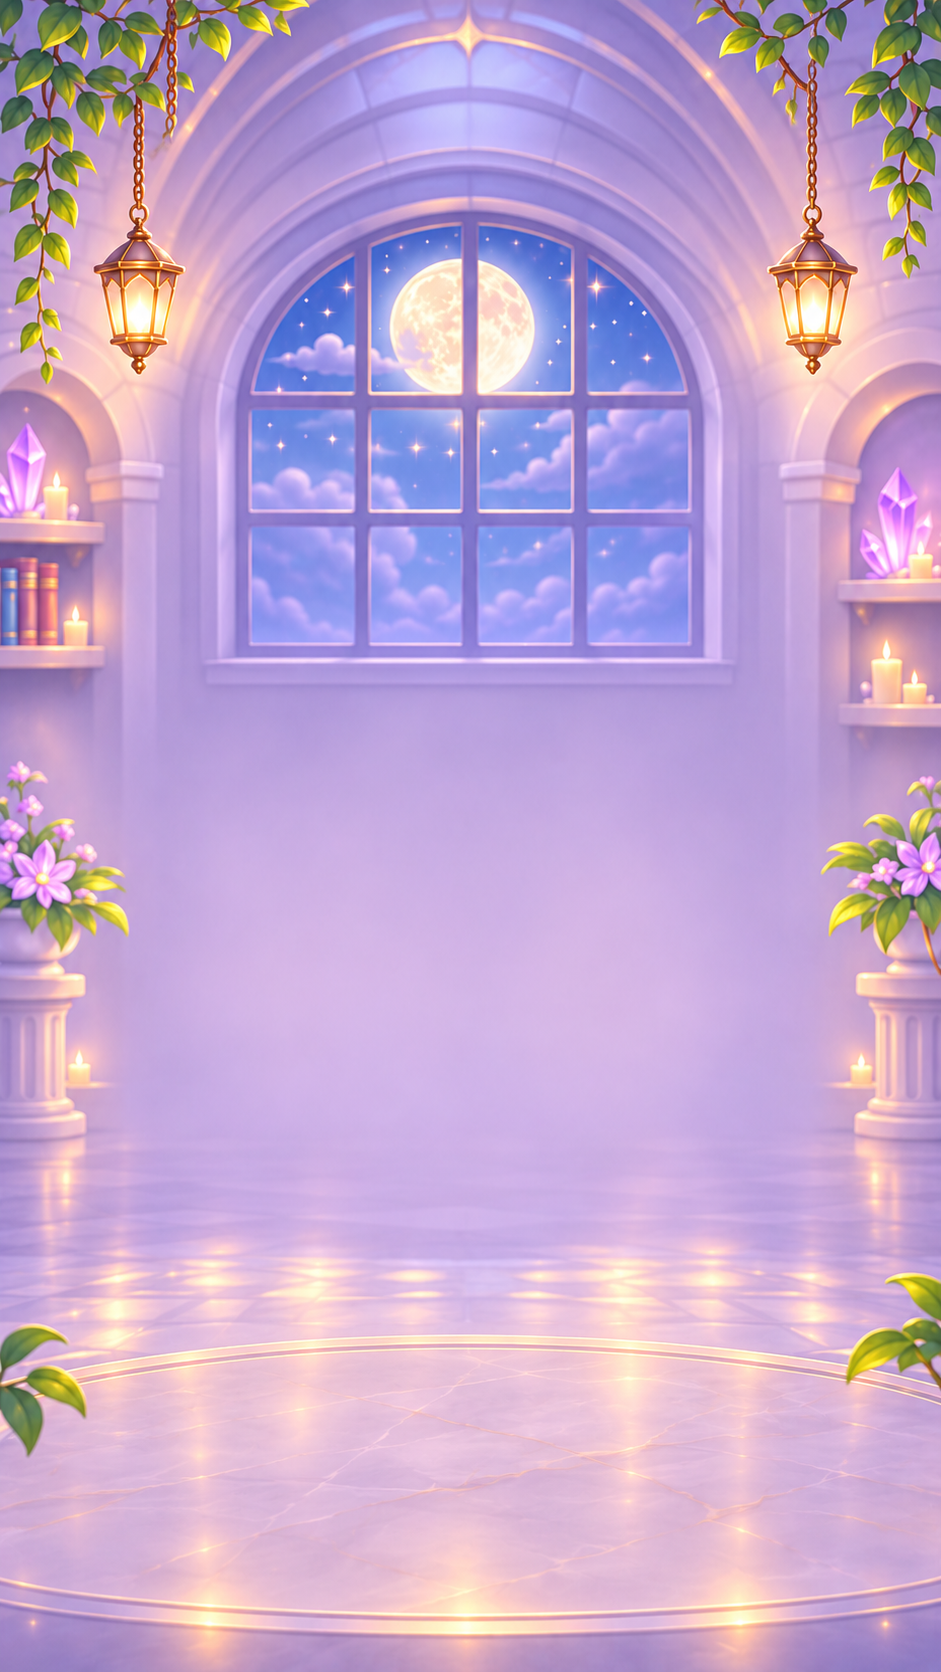
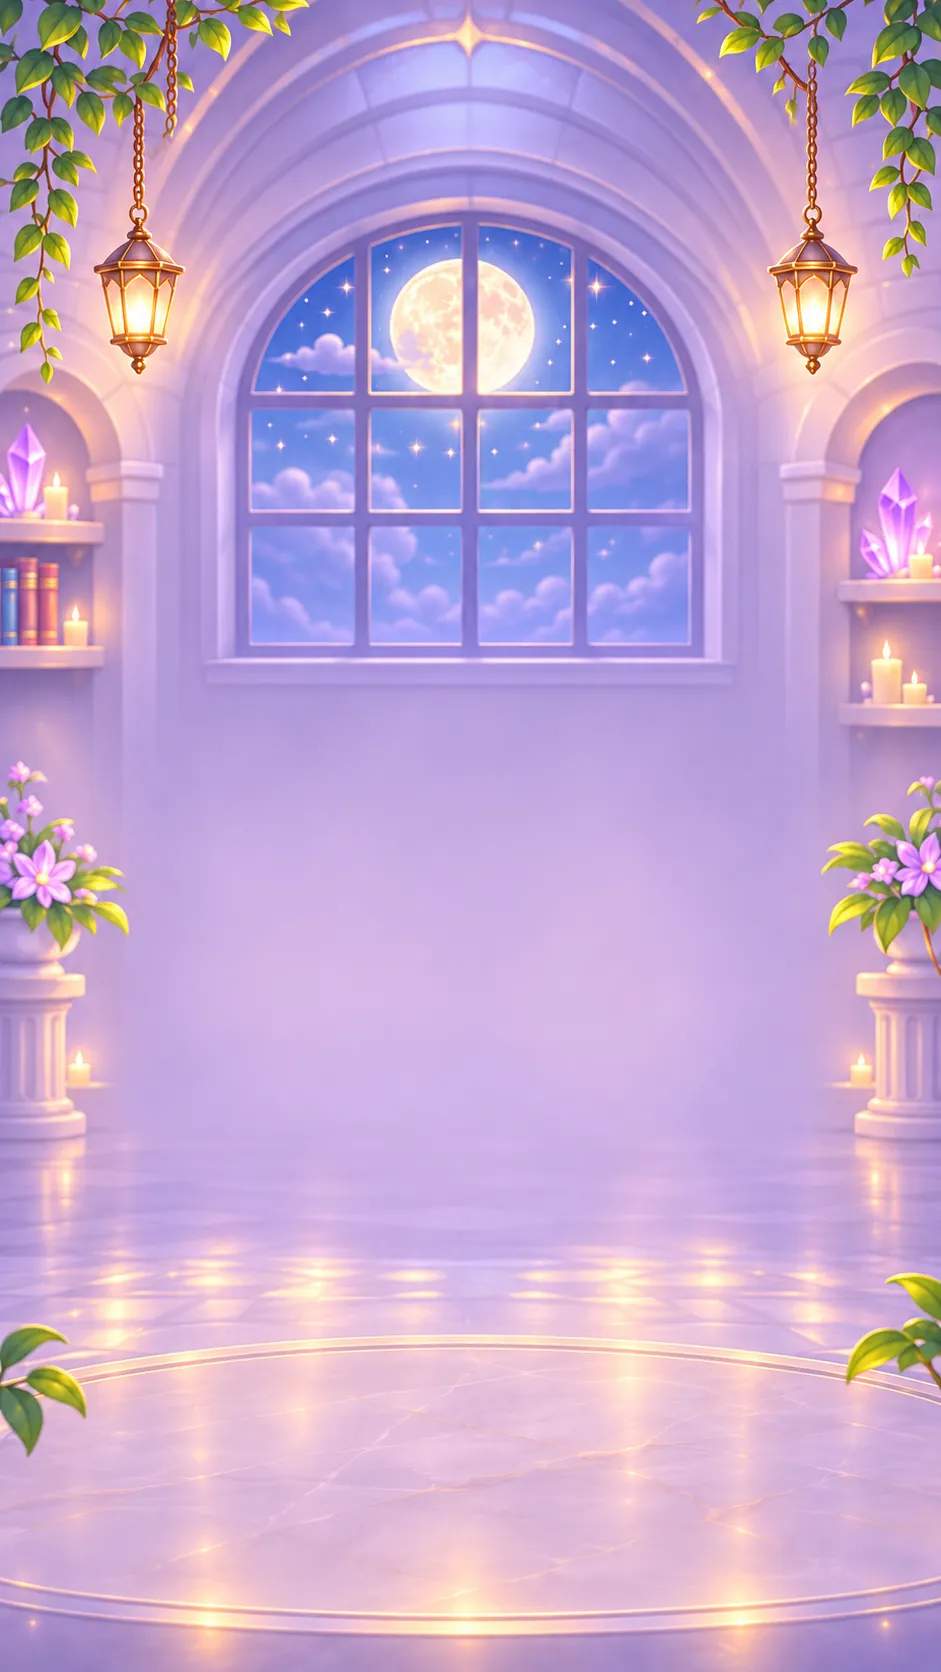
Add files via upload

diff --git a/index.html b/index.html
@@ -2,7 +2,7 @@
 <html lang="en"><head><meta charset="utf-8"><meta name="viewport" content="width=device-width, initial-scale=1, viewport-fit=cover"><meta name="theme-color" content="#b28ad0"><meta name="description" content="Download Potion Puff, a magical potion sorting puzzle game, free on Android and iOS."><meta property="og:title" content="Potion Puff | Magical Puzzle Adventure"><meta property="og:description" content="Sort potions, match colors, and discover magic!"><meta property="og:image" content="potion-puff-logo.png"><title>Potion Puff — Download Free</title>
 <link rel="preconnect" href="https://fonts.googleapis.com"><link rel="preconnect" href="https://fonts.gstatic.com" crossorigin><link href="https://fonts.googleapis.com/css2?family=Baloo+2:wght@500;600;700;800&family=Nunito:wght@500;600;700;800;900&display=swap" rel="stylesheet">
 <style>
-:root{color-scheme:light;--ink:#55336e;--purple:#8247c4;--mint:#13bba6}*{box-sizing:border-box}html{background:#7d58a1}body{margin:0;color:var(--ink);font-family:Nunito,system-ui,sans-serif;min-height:100svh} .page{position:relative;min-height:100svh;max-width:640px;margin:auto;isolation:isolate;overflow:hidden;display:flex;flex-direction:column;align-items:center;justify-content:space-between;padding:calc(22px + env(safe-area-inset-top)) 18px calc(18px + env(safe-area-inset-bottom));background:#bc92d2;box-shadow:0 0 70px #39234d88}.scene{position:absolute;inset:0;z-index:-3;background:url('potion-puff-bg.webp') center center/cover no-repeat}.veil{position:absolute;inset:0;z-index:-2;background:linear-gradient(180deg,#9b73be11 0%,#bb93d022 30%,#d5a4e23d 55%,#9971bd82 77%,#7b50a8b0 100%)}.stars{position:absolute;inset:0;pointer-events:none;z-index:-1;background-image:radial-gradient(circle,#fff6c9 1.5px,transparent 2px),radial-gradient(circle,#fff 1px,transparent 2px);background-size:155px 180px,230px 210px;background-position:30px 25px,100px 80px;animation:twinkle 5s ease-in-out infinite alternate}.top{text-align:center;width:100%;padding-top:clamp(5px,3vh,35px)}.eyebrow{display:inline-block;background:#fff6e8d9;border:1px solid #fff9ed;color:#8452a4;border-radius:50px;padding:6px 16px;font:800 12px Nunito,sans-serif;letter-spacing:.035em;box-shadow:0 4px 16px #6b3b8340}.logo{display:block;width:min(94%,480px);height:auto;margin:clamp(22px,5vh,50px) auto 0;filter:drop-shadow(0 9px 14px #653e8366);animation:float 4.5s ease-in-out infinite}.spark{font-size:20px}.content{width:100%;max-width:465px;text-align:center;margin-top:24px}.tagline{color:#fffaf2;text-shadow:0 2px 7px #62377d,0 1px 1px #62377d;font:800 clamp(21px,5.3vw,30px)/1.18 'Baloo 2',Nunito,sans-serif;margin:0 0 15px}.panel{background:linear-gradient(155deg,#fffaf3f7,#fae9f8f7);border:2px solid #fff7e9;border-radius:28px;padding:19px 17px 15px;box-shadow:0 7px 0 #68438b55,0 16px 35px #4e2a7263;backdrop-filter:blur(8px)}.panel h1{font:800 clamp(23px,5.7vw,30px)/1.12 'Baloo 2',Nunito,sans-serif;margin:0;color:#69408e}.desc{font-size:13px;font-weight:700;color:#8b6a96;margin:5px 0 16px}.buttons{display:grid;gap:10px}.store{min-height:57px;border-radius:17px;display:flex;align-items:center;justify-content:center;gap:12px;text-decoration:none;color:white;font:800 18px 'Baloo 2',Nunito,sans-serif;box-shadow:0 4px 0 #53337366,0 8px 15px #5a347a22;transition:transform .18s,filter .18s}.store svg{width:24px;height:24px;flex-shrink:0}.store:hover{transform:translateY(-2px);filter:brightness(1.06)}.store:active{transform:translateY(2px)}.google{background:linear-gradient(110deg,#26c9ad,#0ba28f)}.apple{background:linear-gradient(110deg,#a56be1,#7744ba)}.store.featured{outline:3px solid #ffcf67;outline-offset:2px}.hint{margin:13px 0 0;font-size:11px;font-weight:800;color:#8b7390}.footer{font:700 11px Nunito,sans-serif;color:#fff4ff;text-shadow:0 2px 5px #4d2e70;margin-top:16px}@keyframes float{50%{transform:translateY(-9px)}}@keyframes twinkle{50%{opacity:.45}}@media(max-height:720px){.page{padding-top:calc(10px + env(safe-area-inset-top));padding-bottom:calc(8px + env(safe-area-inset-bottom))}.top{padding:0}.logo{width:min(74%,330px);margin:10px auto 0}.eyebrow{padding:4px 11px}.content{margin-top:8px}.tagline{margin-bottom:8px;font-size:21px}.panel{padding:12px}.panel h1{font-size:23px}.desc{margin:3px 0 9px}.store{min-height:45px}.buttons{gap:8px}.hint{margin-top:8px}.footer{margin-top:10px}}@media(min-width:700px){.page{min-height:100svh}}@media(prefers-reduced-motion:reduce){.logo,.stars{animation:none}.store{transition:none}}
+:root{color-scheme:light;--ink:#55336e;--purple:#8247c4;--mint:#13bba6}*{box-sizing:border-box}html{background:#7d58a1}body{margin:0;color:var(--ink);font-family:Nunito,system-ui,sans-serif;min-height:100svh} .page{position:relative;min-height:100svh;max-width:640px;margin:auto;isolation:isolate;overflow:hidden;display:flex;flex-direction:column;align-items:center;justify-content:space-between;padding:calc(22px + env(safe-area-inset-top)) 18px calc(18px + env(safe-area-inset-bottom));background:#bc92d2;box-shadow:0 0 70px #39234d88}.scene{position:absolute;inset:0;z-index:-3;background:url('potion-puff-bg.webp') center center/cover no-repeat}.veil{position:absolute;inset:0;z-index:-2;background:linear-gradient(180deg,#9b73be11 0%,#bb93d022 30%,#d5a4e23d 55%,#9971bd82 77%,#7b50a8b0 100%)}.stars{position:absolute;inset:0;pointer-events:none;z-index:-1;background-image:radial-gradient(circle,#fff6c9 1.5px,transparent 2px),radial-gradient(circle,#fff 1px,transparent 2px);background-size:155px 180px,230px 210px;background-position:30px 25px,100px 80px;animation:twinkle 5s ease-in-out infinite alternate}.top{text-align:center;width:100%;padding-top:clamp(5px,3vh,35px)}.eyebrow{display:inline-block;background:#fff6e8d9;border:1px solid #fff9ed;color:#8452a4;border-radius:50px;padding:6px 16px;font:800 12px Nunito,sans-serif;letter-spacing:.035em;box-shadow:0 4px 16px #6b3b8340}.logo{display:block;width:min(94%,480px);height:auto;margin:clamp(22px,5vh,50px) auto 0;filter:drop-shadow(0 9px 14px #653e8366);animation:float 4.5s ease-in-out infinite}.spark{font-size:20px}.content{width:100%;max-width:465px;text-align:center;margin-top:24px}.tagline{color:#fffaf2;text-shadow:0 2px 7px #62377d,0 1px 1px #62377d;font:800 clamp(21px,5.3vw,30px)/1.18 'Baloo 2',Nunito,sans-serif;margin:0 0 15px}.panel{background:linear-gradient(155deg,#fffaf3f7,#fae9f8f7);border:2px solid #fff7e9;border-radius:28px;padding:19px 17px 15px;box-shadow:0 7px 0 #68438b55,0 16px 35px #4e2a7263;backdrop-filter:blur(8px)}.panel h1{font:800 clamp(23px,5.7vw,30px)/1.12 'Baloo 2',Nunito,sans-serif;margin:0;color:#69408e}.desc{font-size:13px;font-weight:700;color:#8b6a96;margin:5px 0 16px}.buttons{display:grid;gap:10px}.store{min-height:57px;border-radius:17px;display:flex;align-items:center;justify-content:center;gap:12px;text-decoration:none;color:white;font:800 18px 'Baloo 2',Nunito,sans-serif;box-shadow:0 4px 0 #53337366,0 8px 15px #5a347a22;transition:transform .18s,filter .18s}.store svg{width:24px;height:24px;flex-shrink:0}.store:hover{transform:translateY(-2px);filter:brightness(1.06)}.store:active{transform:translateY(2px)}.google{background:linear-gradient(110deg,#26c9ad,#0ba28f)}.apple{background:linear-gradient(110deg,#a56be1,#7744ba)}.store.featured{outline:3px solid #ffcf67;outline-offset:2px}.hint{margin:13px 0 0;font-size:11px;font-weight:800;color:#8b7390}.footer{font:700 11px Nunito,sans-serif;color:#fff4ff;text-shadow:0 2px 5px #4d2e70;margin-top:16px}@keyframes float{50%{transform:translateY(-9px)}}@keyframes twinkle{50%{opacity:.45}}@media(max-height:720px){.page{padding-top:calc(10px + env(safe-area-inset-top));padding-bottom:calc(8px + env(safe-area-inset-bottom))}.top{padding:0}.logo{width:min(74%,330px);margin:10px auto 0}.eyebrow{padding:4px 11px}.content{margin-top:8px}.tagline{margin-bottom:8px;font-size:21px}.panel{padding:12px}.panel h1{font-size:23px}.desc{margin:3px 0 9px}.store{min-height:45px}.buttons{gap:8px}.hint{margin-top:8px}.footer{margin-top:10px}}@media(max-width:699px){.page{justify-content:flex-start;gap:0;padding-top:calc(20px + env(safe-area-inset-top));padding-bottom:calc(18px + env(safe-area-inset-bottom))}.top{padding-top:clamp(32px,8svh,95px)}.logo{width:min(98%,500px);margin:clamp(28px,5svh,55px) auto 0}.content{margin-top:auto;padding-top:20px}.tagline{margin-bottom:13px}.footer{margin-top:16px}}@media(max-width:699px) and (max-height:720px){.top{padding-top:clamp(10px,3svh,30px)}.logo{width:min(84%,390px);margin:14px auto 0}.content{padding-top:8px}.panel{padding:12px}.store{min-height:46px}}@media(min-width:700px){.page{min-height:100svh}}@media(prefers-reduced-motion:reduce){.logo,.stars{animation:none}.store{transition:none}}
 </style></head><body><main class="page"><div class="scene" aria-hidden="true"></div><div class="veil" aria-hidden="true"></div><div class="stars" aria-hidden="true"></div><div class="top"><span class="eyebrow">✨ A MAGICAL PUZZLE ADVENTURE ✨</span><img class="logo" src="potion-puff-logo.png" alt="Potion Puff" width="1536" height="1024" fetchpriority="high"></div><div class="content"><p class="tagline">🧪 Sort Potions, Create Magic!</p><section class="panel" aria-label="Download the game"><h1>Play Now for Free!</h1><p class="desc">Match colors and solve magical puzzles! ✨</p><div class="buttons"><a id="google" class="store google" href="https://play.google.com/store/apps/details?id=com.bayramcinar.potionpuff" aria-label="Potion Puff Download on Google Play"><svg viewBox="0 0 24 24" fill="currentColor" aria-hidden="true"><path d="M3.5 2.2a2 2 0 0 0-.5 1.4v16.8a2 2 0 0 0 .5 1.4l9.6-9.8L3.5 2.2Zm11 8.4 3-3.1L6 1.1l8.5 9.5Zm4.4-2.3-3.4 3.5 3.4 3.5 3.3-1.8c1.1-.6 1.1-2.4 0-3l-3.3-2.2Zm-4.4 5.1L6 22.9l11.5-6.4-3-3.1Z"/></svg>Get it on Google Play</a><a id="apple" class="store apple" href="https://apps.apple.com/tr/app/potionpuff/id6823911171" aria-label="Potion Puff Download on the App Store"><svg viewBox="0 0 24 24" fill="currentColor" aria-hidden="true"><path d="M16.9 12.7c0-2 1.6-3 1.7-3.1-.9-1.4-2.3-1.6-2.8-1.6-1.2-.1-2.4.7-3 .7s-1.5-.7-2.5-.7c-1.3 0-2.5.8-3.2 1.9-1.4 2.3-.4 5.8 1 7.7.7.9 1.4 1.9 2.4 1.9s1.3-.6 2.5-.6 1.5.6 2.5.6 1.7-.9 2.3-1.8c.7-1 1-2 1-2.1-2.3-.9-2.9-2.2-2.9-2.9ZM15.1 6.7c.6-.8 1-1.8.9-2.7-.9.1-1.9.6-2.5 1.3-.6.7-1.1 1.7-1 2.6 1 .1 2-.5 2.6-1.2Z"/></svg>Download on the App Store</a></div><p class="hint" id="hint">Choose your store to download.</p></section><div class="footer">© <span id="year"></span> Potion Puff · Made with magic ✨</div></div></main><script>
 const ua=navigator.userAgent||'';const android=/Android/i.test(ua);const ios=/iPhone|iPad|iPod/i.test(ua)||(navigator.platform==='MacIntel'&&navigator.maxTouchPoints>1);const google=document.getElementById('google');const apple=document.getElementById('apple');const hint=document.getElementById('hint');if(android){google.classList.add('featured');hint.textContent='Google Play is recommended for your Android device.';}else if(ios){apple.classList.add('featured');hint.textContent='The App Store is recommended for your iPhone or iPad.';}document.getElementById('year').textContent=new Date().getFullYear();
 </script></body></html>
